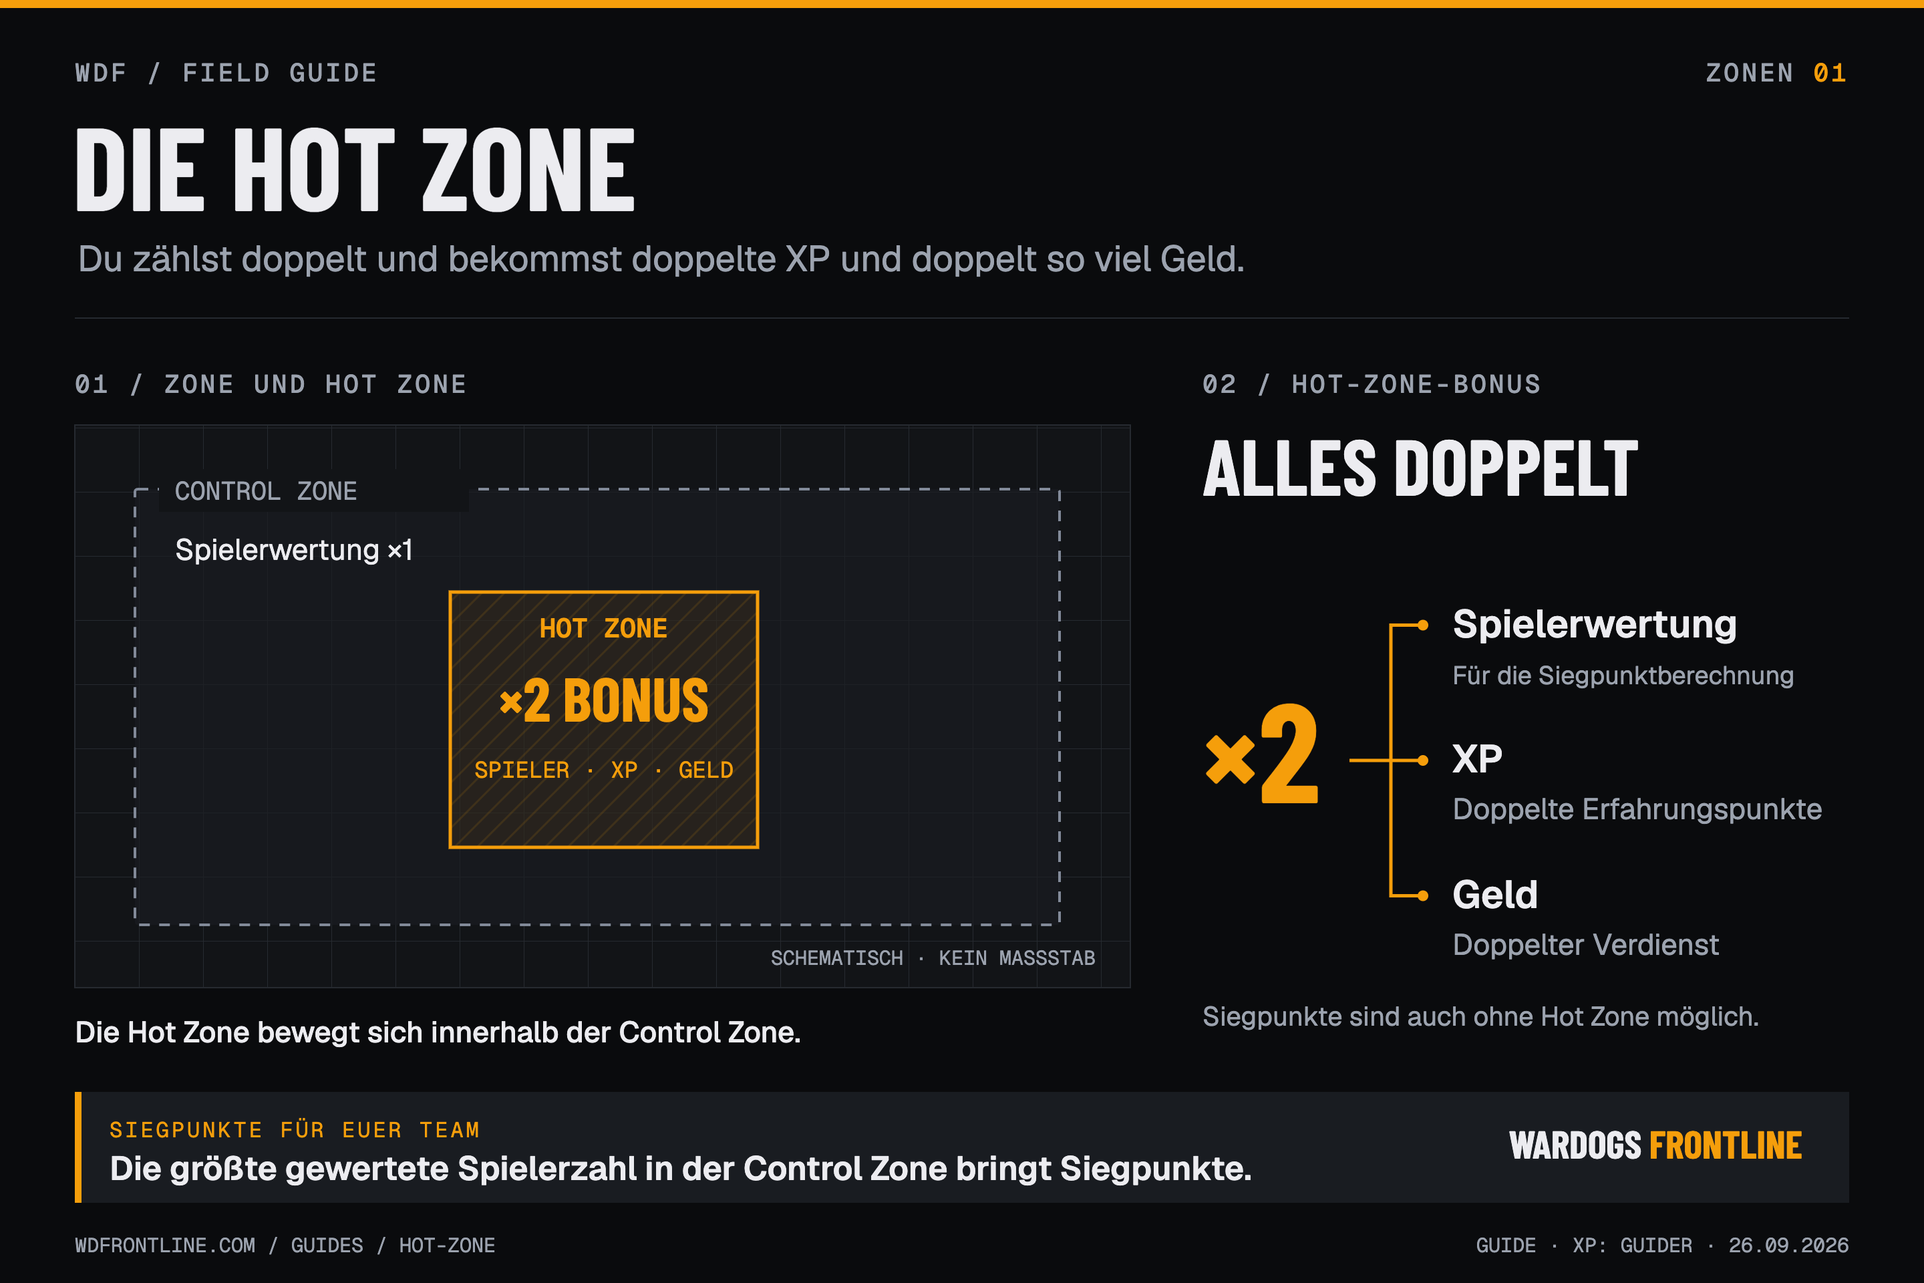
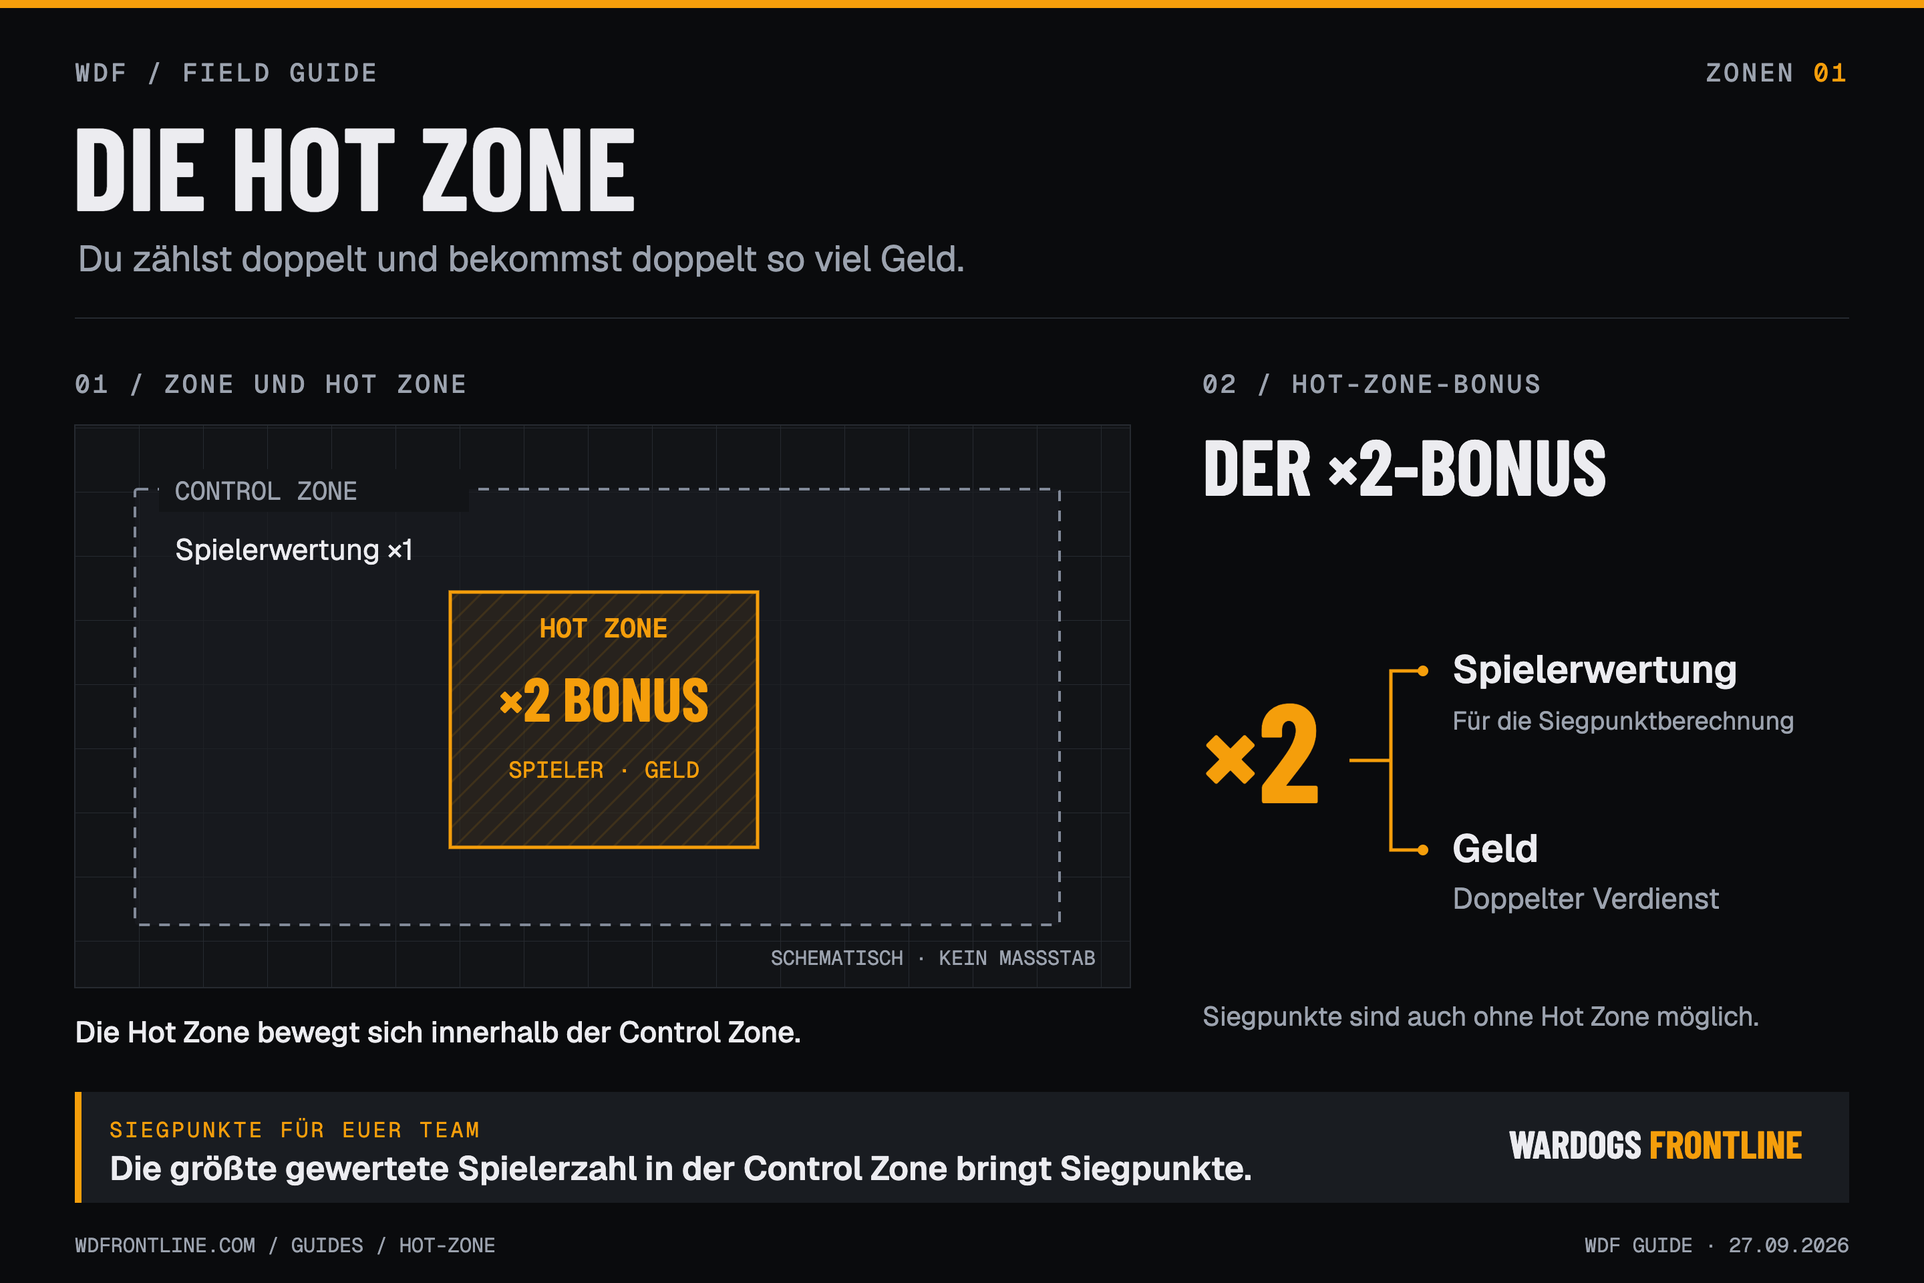
fix(hot-zone): remove incorrect double XP bonus

diff --git a/templates/hot-zone.html b/templates/hot-zone.html
@@ -51,7 +51,7 @@ input { display:block; width:100%; margin-top:6px; border:1px solid #3d424c; bor
  <section class="editor" id="editor" aria-label="Grafik bearbeiten" hidden>
   <div class="fields">
    <label>Überschrift<input id="title-input" maxlength="24" value="DIE HOT ZONE"></label>
-   <label>Unterzeile<input id="subtitle-input" maxlength="70" value="Du zählst doppelt und bekommst doppelte XP und doppelt so viel Geld."></label>
+   <label>Unterzeile<input id="subtitle-input" maxlength="70" value="Du zählst doppelt und bekommst doppelt so viel Geld."></label>
    <label>Kernaussage<input id="takeaway-input" maxlength="80" value="Die größte gewertete Spielerzahl in der Control Zone bringt Siegpunkte."></label>
    <label>Grafiknummer<input id="number-input" maxlength="6" value="01"></label>
   </div>
@@ -61,11 +61,11 @@ input { display:block; width:100%; margin-top:6px; border:1px solid #3d424c; bor
  <!-- EXPORTFLÄCHE: nur dieses SVG wird als Bild gespeichert. 1440 × 960, Seitenverhältnis 3:2.
       BRAND: Originalfarben der Website. Barlow Condensed / Geist / Geist Mono eingebettet.
       INHALT: Guide https://wdfrontline.com/guides/hot-zone, abgerufen am 26.09.2026.
-      Der Guider hat den doppelten XP-Bonus als fachliche Ergänzung bestätigt. Kontext: docs/context.md.
+      Korrektur des Guiders vom 27.09.2026: Die Hot Zone gibt keinen XP-Bonus. Kontext: docs/context.md.
       Die Skizze ist schematisch; Zonenform und Position der Hot Zone sind schematisch. -->
  <svg id="guide-graphic" xmlns="http://www.w3.org/2000/svg" width="1440" height="960" viewBox="0 0 1440 960" role="img" aria-labelledby="graphic-title graphic-description">
   <title id="graphic-title">Die Hot Zone: Bonus und Siegpunktwertung</title>
-  <desc id="graphic-description">Die Hot Zone bewegt sich innerhalb der Control Zone. Sie verdoppelt Spielerwertung, XP und Geld. Siegpunkte erhält das Team mit der größten gewerteten Spielerzahl in der gesamten Control Zone. Eine feste Squad-Aufteilung wird nicht empfohlen.</desc>
+  <desc id="graphic-description">Die Hot Zone bewegt sich innerhalb der Control Zone. Sie verdoppelt Spielerwertung und Geld. Siegpunkte erhält das Team mit der größten gewerteten Spielerzahl in der gesamten Control Zone. Eine feste Squad-Aufteilung wird nicht empfohlen.</desc>
   <metadata id="font-licenses">Copyright (c) 2023 Vercel, in collaboration with basement.studio
 
 This Font Software is licensed under the SIL Open Font License, Version 1.1.
@@ -277,7 +277,7 @@ OTHER DEALINGS IN THE FONT SOFTWARE.
   <text x="56" y="61" class="eyebrow muted">WDF / FIELD GUIDE</text>
   <text x="1384" y="61" text-anchor="end" class="eyebrow muted">ZONEN <tspan fill="#f59e0b" id="graphic-number">01</tspan></text>
   <text x="54" y="158" font-size="88" class="display ink" id="headline">DIE HOT ZONE</text>
-  <text x="58" y="203" font-size="27" class="body muted" id="subtitle">Du zählst doppelt und bekommst doppelte XP und doppelt so viel Geld.</text>
+  <text x="58" y="203" font-size="27" class="body muted" id="subtitle">Du zählst doppelt und bekommst doppelt so viel Geld.</text>
   <path d="M56 238H1384" stroke="#262a30"/>
   <!-- Linke Hälfte: räumliche Beziehung, keine echte Spielkarte. -->
   <g transform="translate(56 272)">
@@ -292,26 +292,23 @@ OTHER DEALINGS IN THE FONT SOFTWARE.
    <rect x="281" y="171" width="230" height="191" fill="url(#hot-hatch)"/>
    <text x="396" y="205" text-anchor="middle" class="mono amber" font-size="20" font-weight="600">HOT ZONE</text>
    <text x="396" y="268" text-anchor="middle" class="display amber" font-size="46">×2 BONUS</text>
-   <text x="396" y="310" text-anchor="middle" class="mono amber" font-size="17">SPIELER · XP · GELD</text>
+   <text x="396" y="310" text-anchor="middle" class="mono amber" font-size="17">SPIELER · GELD</text>
    <text x="75" y="147" class="body ink" font-size="22">Spielerwertung ×1</text>
    <text x="764" y="450" text-anchor="end" font-size="15" class="mono muted">SCHEMATISCH · KEIN MASSSTAB</text>
    <text x="0" y="508" class="label ink">Die Hot Zone bewegt sich innerhalb der Control Zone.</text>
   </g>
-  <!-- Ein gemeinsamer Multiplikator für drei Effekte. -->
+  <!-- Ein gemeinsamer Multiplikator für zwei Effekte. -->
   <g transform="translate(900 272)">
    <text y="22" class="eyebrow muted">02 / HOT-ZONE-BONUS</text>
-   <text y="99" class="display ink" font-size="59">ALLES DOPPELT</text>
+   <text y="99" class="display ink" font-size="59">DER ×2-BONUS</text>
    <text x="0" y="329" class="display amber" font-size="105">×2</text>
-   <path d="M110 297H141M165 195.75H141V398.25H165M141 297H165" fill="none" stroke="#f59e0b" stroke-width="2.5"/>
-   <circle cx="165" cy="195.75" r="4" fill="#f59e0b"/>
-   <circle cx="165" cy="297" r="4" fill="#f59e0b"/>
-   <circle cx="165" cy="398.25" r="4" fill="#f59e0b"/>
-   <text x="187" y="204.75" class="body ink" font-size="29" font-weight="600">Spielerwertung</text>
-   <text x="187" y="239.75" class="body muted" font-size="19">Für die Siegpunktberechnung</text>
-   <text x="187" y="306" class="body ink" font-size="29" font-weight="600">XP</text>
-   <text x="187" y="341" class="body muted" font-size="22">Doppelte Erfahrungspunkte</text>
-   <text x="187" y="407.25" class="body ink" font-size="29" font-weight="600">Geld</text>
-   <text x="187" y="442.25" class="body muted" font-size="22">Doppelter Verdienst</text>
+   <path d="M110 297H141M165 230H141V364H165" fill="none" stroke="#f59e0b" stroke-width="2.5"/>
+   <circle cx="165" cy="230" r="4" fill="#f59e0b"/>
+   <circle cx="165" cy="364" r="4" fill="#f59e0b"/>
+   <text x="187" y="239" class="body ink" font-size="29" font-weight="600">Spielerwertung</text>
+   <text x="187" y="274" class="body muted" font-size="19">Für die Siegpunktberechnung</text>
+   <text x="187" y="373" class="body ink" font-size="29" font-weight="600">Geld</text>
+   <text x="187" y="408" class="body muted" font-size="22">Doppelter Verdienst</text>
    <text y="495.25" class="body muted" font-size="20">Siegpunkte sind auch ohne Hot Zone möglich.</text>
   </g>
   <!-- Kernaussage: Siegpunktwertung in der gesamten Control Zone. -->
@@ -321,7 +318,7 @@ OTHER DEALINGS IN THE FONT SOFTWARE.
   <text x="82" y="883" class="body ink" font-size="25" font-weight="600" id="takeaway">Die größte gewertete Spielerzahl in der Control Zone bringt Siegpunkte.</text>
   <text x="1349" y="867" text-anchor="end" class="display ink" font-size="29">WARDOGS <tspan fill="#f59e0b">FRONTLINE</tspan></text>
   <text x="56" y="937" class="mono muted" font-size="15">WDFRONTLINE.COM / GUIDES / HOT-ZONE</text>
-  <text x="1384" y="937" text-anchor="end" class="mono muted" font-size="15">GUIDE · XP: GUIDER · 26.09.2026</text>
+  <text x="1384" y="937" text-anchor="end" class="mono muted" font-size="15">WDF GUIDE · 27.09.2026</text>
  </svg>
  </div>
  <footer class="meta"><span>3:2 · Schriften eingebettet · funktioniert offline · Bedienleiste wird nicht exportiert</span><span><a href="https://wdfrontline.com/guides/hot-zone" target="_blank" rel="noopener">Zum Originalguide ↗</a> · <button id="zoom" style="padding:4px 9px;min-height:32px;font-size:12px" aria-pressed="false">Vorschau vergrößern</button></span></footer>

diff --git a/docs/context.md b/docs/context.md
@@ -18,12 +18,12 @@ Die erste Vorlage verwendet die Originalschriften und eingebettete Schriftdateie
 
 Die [Hot Zone](https://wdfrontline.com/guides/hot-zone) liegt innerhalb der Control Zone. Die Grafik verbindet zwei Aussagen:
 
-1. In der Hot Zone gilt der ×2-Bonus für die Spielerwertung bei der Siegpunktberechnung, für XP und für Geld.
+1. In der Hot Zone gilt der ×2-Bonus für die Spielerwertung bei der Siegpunktberechnung, und für Geld.
 2. Siegpunkte erhält das Team mit der größten gewerteten Spielerzahl in der gesamten Control Zone. Der Hot-Zone-Bonus wird dabei berücksichtigt; die Hot Zone muss nicht dauerhaft besetzt sein.
 
 Die Hot Zone bewegt sich. Die passende Taktik hängt von der Situation ab: Gegner können beispielsweise in der Hot Zone gegeneinander kämpfen, bevor das eigene Team sie von hinten angreift. Die Grafik gibt deshalb keine feste Squad-Aufteilung vor. Diese Einordnung stammt aus dem Guider-Feedback.
 
-Die Website bestätigt doppelte Spielerwertung und doppeltes Geld. Den doppelten XP-Bonus hat der Guider im Gespräch als fachliche Ergänzung bestätigt. Diese Herkunft ist getrennt dokumentiert; XP wurden nicht unabhängig im Spiel geprüft. Stand: 26. September 2026.
+Die Website bestätigt doppelte Spielerwertung und doppeltes Geld. Am 27. September 2026 hat der Guider klargestellt, dass die Hot Zone keinen XP-Bonus gibt. Diese Korrektur ersetzt die frühere XP-Angabe.
 
 Die doppelte Spielerwertung bedeutet nicht, dass die Fraktion automatisch doppelt so viele Siegpunkte erhält. Der Bonus verändert die Spielerzahl, die für die Mehrheitsberechnung berücksichtigt wird.
 
@@ -35,12 +35,12 @@ Die Skizze zeigt keine echte Karte. Zonengeometrie und Position der Hot Zone die
 | --- | --- |
 | Anthrazit und Amber | Schließt an die Website an; der Bonus fällt sofort auf |
 | Barlow Condensed, Geist, Geist Mono | Entspricht der geprüften Typografie der Website |
-| ×2 mit drei verbundenen Effekten | Zeigt den gemeinsamen Bonus statt einer einzelnen Zahlenrechnung |
+| ×2 mit zwei verbundenen Effekten | Zeigt den gemeinsamen Bonus statt einer einzelnen Zahlenrechnung |
 | Zonenskizze links | Zeigt die Hot Zone als beweglichen Teil der Control Zone |
 | Kernaussage unten | Erklärt, welches Team Siegpunkte bekommt |
 | SVG innerhalb einer HTML-Datei | Scharfer Export und eingebettete Schriften ohne zusätzliche Ressourcen |
 
-Der ursprüngliche Vergleich „2 Spieler zählen wie 4“ wurde nach Feedback ersetzt. Maßgeblich ist jetzt das übergeordnete Konzept **„Alles doppelt“**, konkret auf Spielerwertung, XP und Geld bezogen.
+Der ursprüngliche Vergleich „2 Spieler zählen wie 4“ wurde nach Feedback ersetzt. Maßgeblich ist jetzt das übergeordnete Konzept **„Der ×2-Bonus“**, konkret auf Spielerwertung und Geld bezogen.
 
 ## Umfang und Verantwortung
 

diff --git a/guides/hot-zone.md b/guides/hot-zone.md
@@ -1,12 +1,12 @@
 # Die Hot Zone
 
-In der Hot Zone zählst du doppelt und bekommst doppelte XP und doppelt so viel Geld. Ob es sich lohnt, sie zu besetzen, hängt von der Situation ab.
+In der Hot Zone zählst du doppelt und bekommst doppelt so viel Geld. Ob es sich lohnt, sie zu besetzen, hängt von der Situation ab.
 
-![Die Hot Zone liegt innerhalb der Control Zone und verdoppelt Spielerwertung, XP und Geld. Für Siegpunkte zählt die gewertete Spielerzahl eines Teams in der gesamten Control Zone.](../exports/hot-zone.png)
+![Die Hot Zone liegt innerhalb der Control Zone und verdoppelt Spielerwertung und Geld. Für Siegpunkte zählt die gewertete Spielerzahl eines Teams in der gesamten Control Zone.](../exports/hot-zone.png)
 
 ## Was die Hot Zone bringt
 
-Die Hot Zone bewegt sich innerhalb der Control Zone. Wer sich darin aufhält, zählt bei der Siegpunktberechnung doppelt und bekommt doppelte XP sowie doppelt so viel Geld.
+Die Hot Zone bewegt sich innerhalb der Control Zone. Wer sich darin aufhält, zählt bei der Siegpunktberechnung doppelt und bekommt doppelt so viel Geld. Für XP gibt es keinen Hot-Zone-Bonus.
 
 Das bedeutet nicht, dass euer Team doppelte Siegpunkte erhält. Für die Mehrheitswertung zählt jeder Spieler in der Hot Zone als zwei Spieler.
 
@@ -26,4 +26,4 @@ Achtet auf die ganze Control Zone, die Gegner und eure eigenen Positionen. Die H
 
 ---
 
-Stand: 26. September 2026. Überarbeitet auf Grundlage des [WDF-Guides](https://wdfrontline.com/guides/hot-zone) und der fachlichen Ergänzungen des Guiders. Herkunft der Aussagen: [Projektkontext](../docs/context.md).
+Stand: 27. September 2026. Überarbeitet auf Grundlage des [WDF-Guides](https://wdfrontline.com/guides/hot-zone) und der fachlichen Ergänzungen des Guiders. Herkunft der Aussagen: [Projektkontext](../docs/context.md).

diff --git a/docs/design-system/patterns.md b/docs/design-system/patterns.md
@@ -23,13 +23,13 @@ Die rechteckigen Zonen in diesem Beispiel sind eine vereinfachte Darstellung. Si
 
 ## Gemeinsamer Multiplikator
 
-Ein großes **×2** verbindet sich über eine gemeinsame Linie mit drei benannten Effekten: Spielerwertung, XP und Geld. Die Linie zeigt, dass derselbe Bonus für alle drei gilt. Die Erläuterung zur Spielerwertung nennt die Siegpunktberechnung ausdrücklich.
+Ein großes **×2** verbindet sich über eine gemeinsame Linie mit zwei benannten Effekten: Spielerwertung und Geld. Die Linie zeigt, dass derselbe Bonus für beide gilt. Die Erläuterung zur Spielerwertung nennt die Siegpunktberechnung ausdrücklich.
 
 Das Muster passt für einen gemeinsamen Modifikator mit mehreren Folgen. Unterschiedliche Werte, zeitliche Abläufe oder Voraussetzungen brauchen eine andere Darstellung.
 
 ## Beschriftungen
 
-Labels benennen Orte, Werte oder Handlungen. Erläuterungen ergänzen nur, was aus der Grafik noch nicht hervorgeht. **„Alles doppelt“** bleibt unmittelbar mit den drei konkreten Effekten verbunden; daraus wird keine Aussage über Munition, Schaden oder andere Spielwerte.
+Labels benennen Orte, Werte oder Handlungen. Erläuterungen ergänzen nur, was aus der Grafik noch nicht hervorgeht. **„Der ×2-Bonus“** bleibt unmittelbar mit den beiden konkreten Effekten verbunden; daraus wird keine Aussage über XP, Munition, Schaden oder andere Spielwerte.
 
 Keine erfundenen Spieloberflächen, dekorativen Statistikanzeigen oder wiederholten Textkarten ergänzen. Die Zonen in der Skizze sind vereinfachte Diagrammflächen. Für zusätzliche allgemeine Icons Tabler verwenden, sofern kein bestehendes passendes Symbol vorliegt; SVGs lokal einbetten.
 

diff --git a/AGENTS.md b/AGENTS.md
@@ -21,9 +21,9 @@ Dieses Repository enthält deutschsprachige Wardogs-Guides und HTML-Vorlagen fü
 
 ## Fachliche Grundlage: Hot Zone
 
-Die Hot Zone bewegt sich innerhalb der Control Zone. Sie verdoppelt Spielerwertung, XP und Geld. Siegpunkte bekommt das Team mit der größten gewerteten Spielerzahl in der gesamten Control Zone; Spieler in der Hot Zone zählen dabei doppelt. Das bedeutet keine automatisch verdoppelten Siegpunkte.
+Die Hot Zone bewegt sich innerhalb der Control Zone. Sie verdoppelt Spielerwertung und Geld. XP werden nicht verdoppelt. Siegpunkte bekommt das Team mit der größten gewerteten Spielerzahl in der gesamten Control Zone; Spieler in der Hot Zone zählen dabei doppelt. Das bedeutet keine automatisch verdoppelten Siegpunkte.
 
-Die Hot Zone muss nicht dauerhaft besetzt sein. Ob man sie besetzt, Gegner abfängt oder einen anderen Teil der Control Zone nutzt, hängt von der Situation ab. Die Herkunft dieser Aussagen und der XP-Ergänzung ist in `docs/context.md` festgehalten.
+Die Hot Zone muss nicht dauerhaft besetzt sein. Ob man sie besetzt, Gegner abfängt oder einen anderen Teil der Control Zone nutzt, hängt von der Situation ab. Die Herkunft dieser Aussagen und der Korrektur zum XP-Bonus ist in `docs/context.md` festgehalten.
 
 ## Gestaltung
 

diff --git a/docs/workflow.md b/docs/workflow.md
@@ -43,6 +43,8 @@ flowchart LR
 
 ## Bisherige Prüfung
 
-Am 26. September 2026 wurden die HTML-Vorschau, Textbearbeitung und der PNG-Export im Chromium-basierten Browser geprüft. Die Bedienoberfläche wurde bei 375 Pixel Breite geprüft; die Bilddatei mit 2880 × 1920 Pixeln wurde visuell kontrolliert. Nach der XP-Ergänzung wurden die neue Bonusdarstellung und der PNG-Export erneut geprüft.
+Am 26. September 2026 wurden die HTML-Vorschau, Textbearbeitung und der PNG-Export im Chromium-basierten Browser geprüft. Die Bedienoberfläche wurde bei 375 Pixel Breite geprüft; die Bilddatei mit 2880 × 1920 Pixeln wurde visuell kontrolliert. Die Bonusdarstellung und der PNG-Export wurden danach erneut geprüft.
 
 Safari und Firefox sowie eine tatsächliche Einbindung in die WDF-Website sind bisher nicht geprüft. Für eine Veröffentlichung den Export im verwendeten Browser und das Bild im Guide kontrollieren.
+
+Am 27. September 2026 wurde der XP-Bonus nach der Korrektur des Guiders entfernt. Die Grafik zeigt zwei Bonuszweige. Der PNG-Export mit 2880 × 1920 Pixeln wurde erneut im Browser erzeugt und visuell geprüft.

diff --git a/docs/language.md b/docs/language.md
@@ -26,7 +26,7 @@ Die Beispiele sind redaktionelle Vorschläge. Spielregeln werden dabei nicht erw
 
 ## Hot-Zone-Grafik
 
-Die zentrale Aussage lautet **„Du zählst doppelt und bekommst doppelte XP und doppelt so viel Geld.“** Das Bonusdiagramm erklärt diese drei Effekte. Die Kernaussage zur Siegpunktwertung lautet **„Die größte gewertete Spielerzahl in der Control Zone bringt Siegpunkte.“** Die Grafik gibt keine feste Squad-Aufteilung vor.
+Die zentrale Aussage lautet **„Du zählst doppelt und bekommst doppelt so viel Geld.“** Das Bonusdiagramm erklärt diese beiden Effekte. Die Kernaussage zur Siegpunktwertung lautet **„Die größte gewertete Spielerzahl in der Control Zone bringt Siegpunkte.“** Die Grafik gibt keine feste Squad-Aufteilung vor.
 
 Der Vergleich „2 Spieler zählen wie 4“ wurde im Feedback als holprig und zu eng empfunden. Er zeigt nur einen Teil des Bonus. Die aktuelle Grafik erklärt deshalb das gesamte Konzept.
 

diff --git a/docs/sources.md b/docs/sources.md
@@ -8,7 +8,7 @@ Stand der Website-Prüfung: 26. September 2026.
 | --- | --- |
 | [Wardogs Frontline](https://wdfrontline.com/) | Farben, Schriftfamilien und Website-Kontext |
 | [Die Hot Zone](https://wdfrontline.com/guides/hot-zone) | Control Zone, Spielerwertung und Geld |
-| Guider-Feedback in der Projektbesprechung | XP ebenfalls verdoppelt; bewegliche Hot Zone; situative Taktik statt fester Squad-Aufteilung; gesamte Control Zone entscheidet |
+| Guider-Feedback in der Projektbesprechung | Korrektur vom 27. September 2026: kein XP-Bonus; bewegliche Hot Zone; situative Taktik statt fester Squad-Aufteilung; gesamte Control Zone entscheidet |
 | [Die erste Partie](https://wdfrontline.com/guides/erste-partie) | Sprachliche Beispiele |
 | [Squad und Funk](https://wdfrontline.com/guides/squad-und-funk) | Sprachliche Beispiele |
 | [Nachschub fahren](https://wdfrontline.com/guides/nachschub-fahren) | Weitere Sprachreferenz |

diff --git a/README.md b/README.md
@@ -11,7 +11,7 @@ HTML-Vorlagen für Grafiken in den Guides von [wdfrontline.com](https://wdfrontl
 
 Die Datei funktioniert offline. Schriften, Gestaltung und Diagramm sind eingebettet; ein Build ist nicht nötig. Änderungen im Texteditor werden direkt in der HTML-Datei gespeichert. Änderungen über das Formular gelten für die aktuelle Browseransicht und den Bildexport; sie werden nicht in die HTML-Datei zurückgeschrieben.
 
-![Die Hot Zone: doppeltes Spielergewicht, doppelte XP und doppeltes Geld](exports/hot-zone.png)
+![Die Hot Zone: doppelte Spielerwertung und doppeltes Geld](exports/hot-zone.png)
 
 ## Ablage
 
